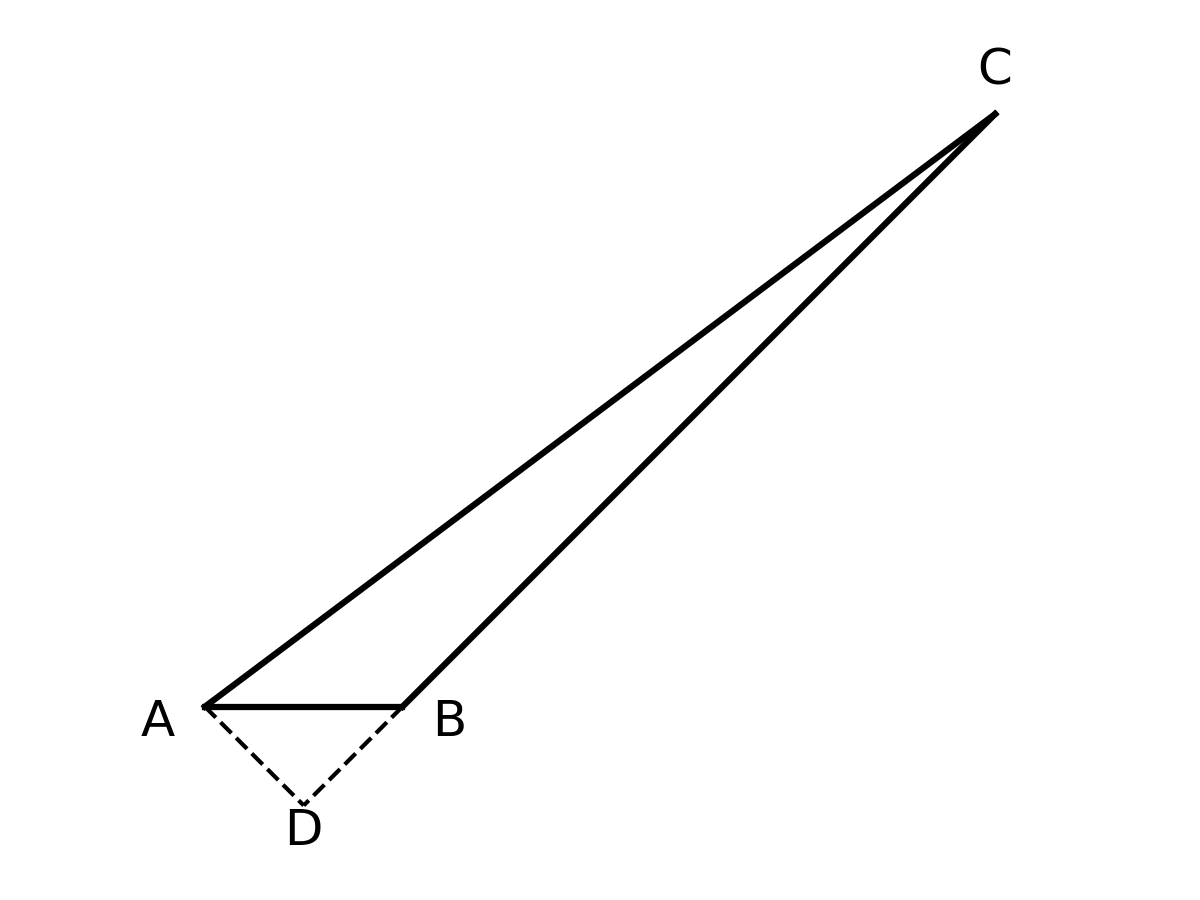
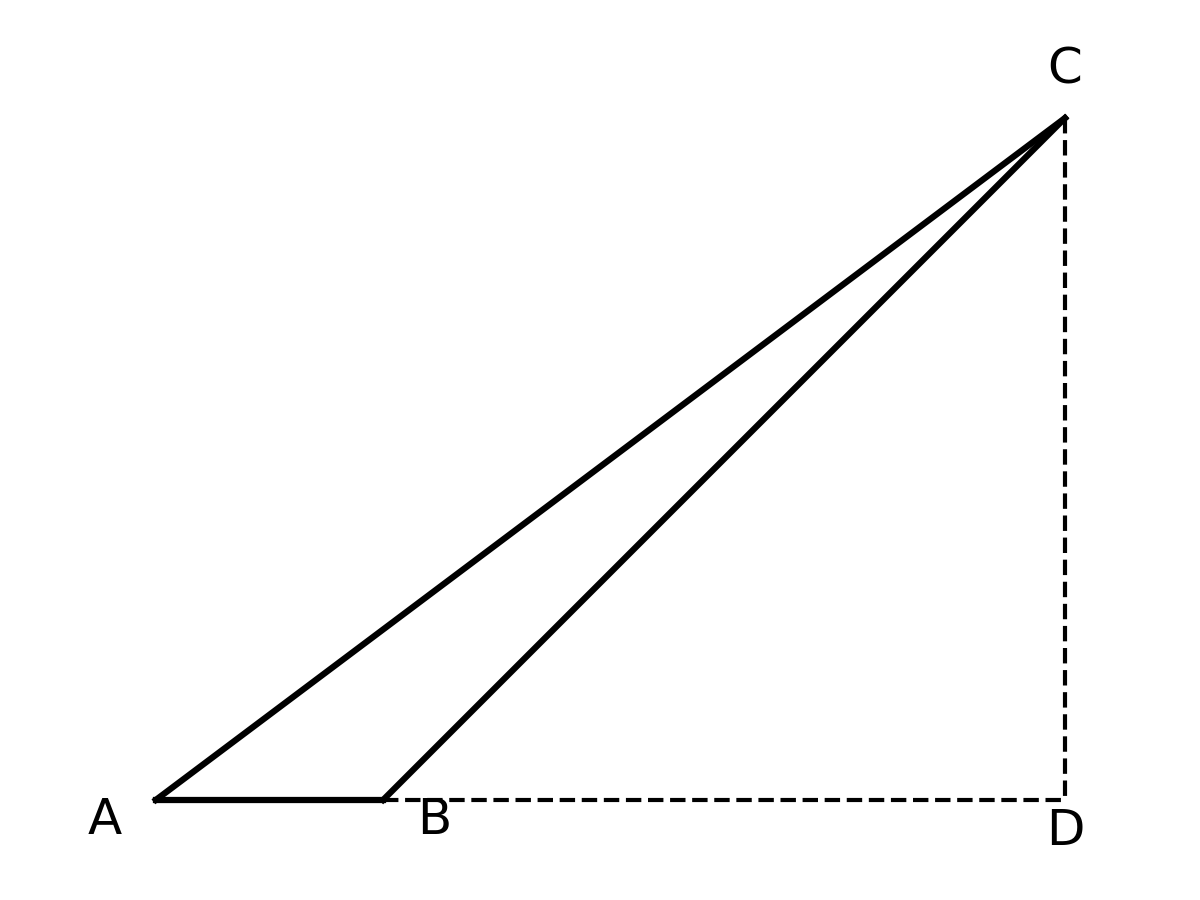
Regenerate triangle handouts conforming to new quantity rules (5 variants + 3 tests)

diff --git a/handouts/draw_trig_all.py b/handouts/draw_trig_all.py
@@ -1,0 +1,62 @@
+import matplotlib.pyplot as plt
+import os
+import math
+
+os.makedirs('/Users/yangyake/IdeaProjects/math/handouts/images', exist_ok=True)
+
+def draw_tri(filename, A, B, C, labels, alt_lines=None, extra_points=None):
+    fig, ax = plt.subplots(figsize=(4, 3))
+    ax.plot([A[0], B[0]], [A[1], B[1]], 'k-', lw=1.5)
+    ax.plot([B[0], C[0]], [B[1], C[1]], 'k-', lw=1.5)
+    ax.plot([C[0], A[0]], [C[1], A[1]], 'k-', lw=1.5)
+
+    if alt_lines:
+        for line in alt_lines:
+            ax.plot([line[0][0], line[1][0]], [line[0][1], line[1][1]], 'k--', lw=1)
+
+    if extra_points:
+        for pt, lbl in extra_points:
+            ax.text(pt[0], pt[1]-0.4, lbl, fontsize=12, ha='center')
+
+    ax.text(A[0]-0.3, A[1]-0.3, labels[0], fontsize=12, ha='right')
+    ax.text(B[0]+0.3, B[1]-0.3, labels[1], fontsize=12, ha='left')
+    ax.text(C[0], C[1]+0.3, labels[2], fontsize=12, ha='center')
+
+    ax.set_aspect('equal')
+    ax.axis('off')
+    plt.tight_layout()
+    plt.savefig(f'/Users/yangyake/IdeaProjects/math/handouts/images/{filename}', dpi=300)
+    plt.close()
+
+# Original
+draw_tri('trig_original.png', (0,0), (2,0), (8,6), ['A', 'B', 'C'], alt_lines=[((8,6),(8,0)), ((2,0),(8,0))], extra_points=[((8,0), 'D')])
+
+# V1
+draw_tri('trig_var1.png', (0,0), (5,0), (2, 3.464), ['C', 'A', 'B'])
+
+# V2
+draw_tri('trig_var2.png', (0,0), (4,0), (1, 2), ['C', 'A', 'B'])
+
+# V3
+draw_tri('trig_var3.png', (0,0), (6,0), (2, 3), ['B', 'C', 'A'])
+
+# V4 (with median)
+A = (0,0); C = (2,0); B = (3*math.cos(math.pi/3), 3*math.sin(math.pi/3))
+D = ((B[0]+C[0])/2, (B[1]+C[1])/2)
+draw_tri('trig_var4.png', A, B, C, ['A', 'B', 'C'], alt_lines=[(A, D)], extra_points=[(D, 'D')])
+
+# V5
+draw_tri('trig_var5.png', (0,0), (4,0), (1.5, 3), ['B', 'C', 'A'])
+
+# Test 1
+draw_tri('trig_test1.png', (0,0), (3,0), (1, 2), ['A', 'B', 'C'])
+
+# Test 2
+draw_tri('trig_test2.png', (0,0), (5,0), (2, 4), ['B', 'C', 'A'])
+
+# Test 3 (with angle bisector)
+A = (0,0); B = (4,0); C = (2, 3)
+# arbitrary D on BC
+D = (3, 1.5)
+draw_tri('trig_test3.png', A, B, C, ['A', 'B', 'C'], alt_lines=[(A, D)], extra_points=[(D, 'D')])
+

diff --git a/handouts/draw_trig_tests.py b/handouts/draw_trig_tests.py
@@ -1,0 +1,41 @@
+import matplotlib.pyplot as plt
+import os
+import math
+
+os.makedirs('/Users/yangyake/IdeaProjects/math/handouts/images', exist_ok=True)
+
+def draw_tri_simple(filename, A, B, C, labels, extra_lines=None, extra_labels=None):
+    fig, ax = plt.subplots(figsize=(4, 3))
+    ax.plot([A[0], B[0], C[0], A[0]], [A[1], B[1], C[1], A[1]], 'k-', lw=1.5)
+
+    if extra_lines:
+        for line in extra_lines:
+            ax.plot([line[0][0], line[1][0]], [line[0][1], line[1][1]], 'k--', lw=1)
+
+    ax.text(A[0]-0.2, A[1]-0.2, labels[0], fontsize=12, ha='center')
+    ax.text(B[0]+0.2, B[1]-0.2, labels[1], fontsize=12, ha='center')
+    ax.text(C[0], C[1]+0.2, labels[2], fontsize=12, ha='center')
+
+    if extra_labels:
+        for pos, text in extra_labels:
+            ax.text(pos[0], pos[1]-0.2, text, fontsize=12, ha='center')
+
+    ax.set_aspect('equal')
+    ax.axis('off')
+    plt.tight_layout()
+    plt.savefig(f'/Users/yangyake/IdeaProjects/math/handouts/images/{filename}', dpi=300)
+    plt.close()
+
+# test1
+draw_tri_simple('trig_test1.png', (2,0), (0,0), (1.5, 2.598), ['A', 'B', 'C'])
+
+# test2
+draw_tri_simple('trig_test2.png', (0,0), (4,0), (2, 3.464), ['A', 'B', 'C'])
+
+# test3 (angle bisector CD)
+C = (0, 3)
+A = (-2, 0)
+B = (4, 0)
+D = (0, 0) # Roughly bisector
+draw_tri_simple('trig_test3.png', A, B, C, ['A', 'B', 'C'], extra_lines=[(C, D)], extra_labels=[(D, 'D')])
+

diff --git a/handouts/题目解析_解三角形_学生版.md b/handouts/题目解析_解三角形_学生版.md
@@ -5,7 +5,7 @@
 - **考查知识点**：
   1. 正弦定理（$\frac{a}{\sin A} = \frac{b}{\sin B} = \frac{c}{\sin C} = 2R$）的边角互化。
   2. 余弦定理（$a^2 = b^2+c^2-2bc\cos A$）的应用，特别是求边长与判断角的大小。
-  3. 三角形面积公式（$S = \frac{1}{2}ab\sin C = \frac{1}{2}ah_a$）的应用。
+  3. 三角形面积公式（$S = \frac{1}{2}ab\sin C$）的应用。
   4. 存在性与唯一性问题，及三角恒等变换的综合。
 - **高考占比与频次**：解三角形是高考解答题的必考点（通常在第15或16题），分值10-13分，难度属中低档，属于“必须全对”的基础送分题区。
 - **常见命题形式与变体**：第一问多为利用正、余弦定理求角或求边；第二问多为条件开放性问题（给出三个条件让选一个使得三角形存在或唯一）或求周长/面积的最值（范围）问题。
@@ -68,7 +68,6 @@
 *(留白)*
 <br><br><br><br><br><br><br><br><br>
 
-### 【第三阶：课后/周末挑战】（巩固提升与压轴挑战，难度递增）
 **【变式 4】**
 在 $\triangle ABC$ 中，角 $A = \frac{\pi}{3}$，$b=2$，$c=3$，$D$ 是 $BC$ 边的中点。
 (1) 求 $\triangle ABC$ 的面积；
@@ -83,6 +82,38 @@
 已知 $\triangle ABC$ 的内角 $A, B, C$ 所对的边分别是 $a, b, c$。已知 $\sqrt{3} a \cos C + c \sin A = \sqrt{3} b$。
 (1) 求角 $A$ 的大小；
 (2) 若 $a=2$，且 $\triangle ABC$ 为锐角三角形，求 $\triangle ABC$ 面积的取值范围。
+
+*(留白)*
+<br><br><br><br><br><br><br><br><br>
+
+### 【第三阶：课后测试挑战】（巩固提升与压轴挑战，最少3道独立题，难度递增）
+**【课后测试 1】（巩固基础）**
+在 $\triangle ABC$ 中，内角 $A, B, C$ 所对的边分别为 $a, b, c$。已知 $a=3, c=2, B=60^\circ$。
+(1) 求 $b$ 的值；
+(2) 求 $\triangle ABC$ 的面积。
+
+![课后测试1图](images/trig_test1.png)
+
+*(留白)*
+<br><br><br><br><br><br><br><br><br>
+
+**【课后测试 2】（能力进阶）**
+在 $\triangle ABC$ 中，已知 $\sin^2 A + \sin^2 B - \sin A \sin B = \sin^2 C$。
+(1) 求角 $C$ 的大小；
+(2) 若 $c=2\sqrt{3}$，求 $\triangle ABC$ 周长的最大值。
+
+![课后测试2图](images/trig_test2.png)
+
+*(留白)*
+<br><br><br><br><br><br><br><br><br>
+
+**【课后测试 3】（压轴挑战）**
+在 $\triangle ABC$ 中，内角 $A, B, C$ 的对边分别为 $a, b, c$，且 $\cos C = \frac{1}{4}$。$D$ 为 $AB$ 边上一点，且 $CD$ 平分 $\angle ACB$。
+已知 $CD=2$，$\triangle ABC$ 的面积为 $3\sqrt{15}$。
+(1) 求 $ab$ 的值；
+(2) 求 $c$ 的值。
+
+![课后测试3图](images/trig_test3.png)
 
 *(留白)*
 <br><br><br><br><br><br><br><br><br>
